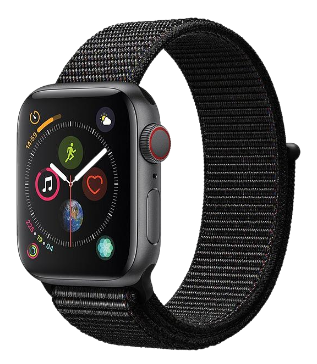
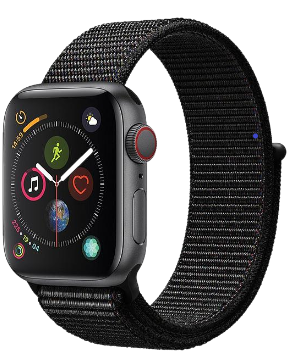
added custom images

diff --git a/index.html b/index.html
@@ -124,7 +124,7 @@
                                         </tr>
                                         <tr>
                                             <td align="center" valign="bottom" style="padding-top: 16px;">
-                                                    <img src="https://i.ibb.co/k80XRBk/smartwatch.png">
+                                                    <img src="./assets/black_apple_watch.png">
                                             </td>
                                         </tr>
                                     </table>
@@ -243,7 +243,7 @@
                                     <table class="advance-table" width="100%" align="left" cellspacing="0" cellpadding="0" border="0" style="padding: 15px 15px 70px 15px; background: white;">
                                         <tr>
                                             <td style="font-family: 'Open Sans', 'Helvetica Neue', Helvetica, Arial, 'Lucida Grande', sans-serif; color: #333333; font-weight: 300; font-size: 24px; padding: 36px 0px 16px 0px;" align="center">
-                                                <img src="https://i.ibb.co/ctS0wfW/image-head.jpg" alt="Header Image" class="image_head">
+                                                <img src="./assets/office_space.png" alt="Header Image" class="image_head">
                                             </td>
                                         </tr>
                                         <tr>
@@ -324,7 +324,7 @@
                                                 <table class="left-column" width="33.33%" align="left" cellspacing="0" cellpadding="0" border="0" style= "background: white; padding: 20px 15px;">
                                                     <tr>
                                                         <td align="center">
-                                                            <img src="https://i.ibb.co/Jph0MGN/watch-screen.png" alt="">
+                                                            <img src="./assets/apple_watch_face.png" alt="Apple Watchface">
                                                         </td>
                                                     </tr>
                                                     <tr>
@@ -350,7 +350,7 @@
                                                 <table class="middle-column" width="33.33%" align="left" cellspacing="0" cellpadding="0" border="0" style= "background: white; padding: 20px 15px;">
                                                     <tr>
                                                         <td align="center">
-                                                            <img src="https://i.ibb.co/Jph0MGN/watch-screen.png" alt="">
+                                                            <img src="./assets/apple_watch_face.png" alt="Apple Watchface">
                                                         </td>
                                                     </tr>
                                                     <tr>
@@ -376,7 +376,7 @@
                                                 <table class="right-column" width="33.33%" align="left" cellspacing="0" cellpadding="0" border="0" style= "background: white; padding: 20px 15px;">
                                                     <tr>
                                                         <td align="center">
-                                                            <img src="https://i.ibb.co/Jph0MGN/watch-screen.png" alt="">
+                                                            <img src="./assets/apple_watch_face.png" alt="Apple Watchface">
                                                         </td>
                                                     </tr>
                                                     <tr>
